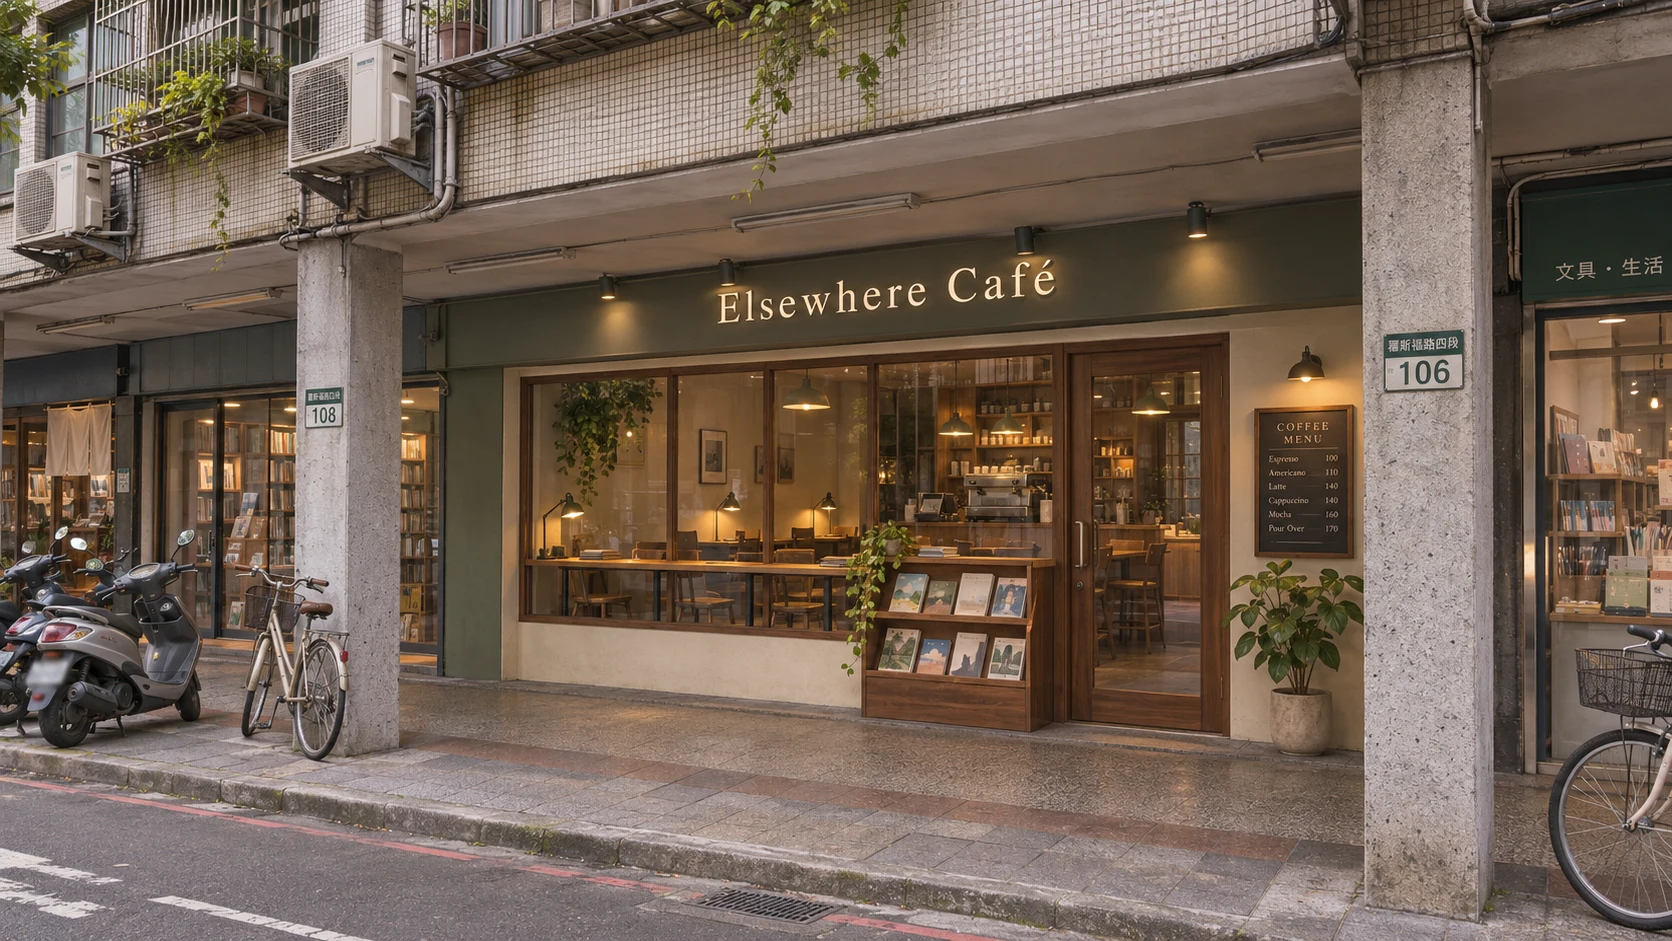
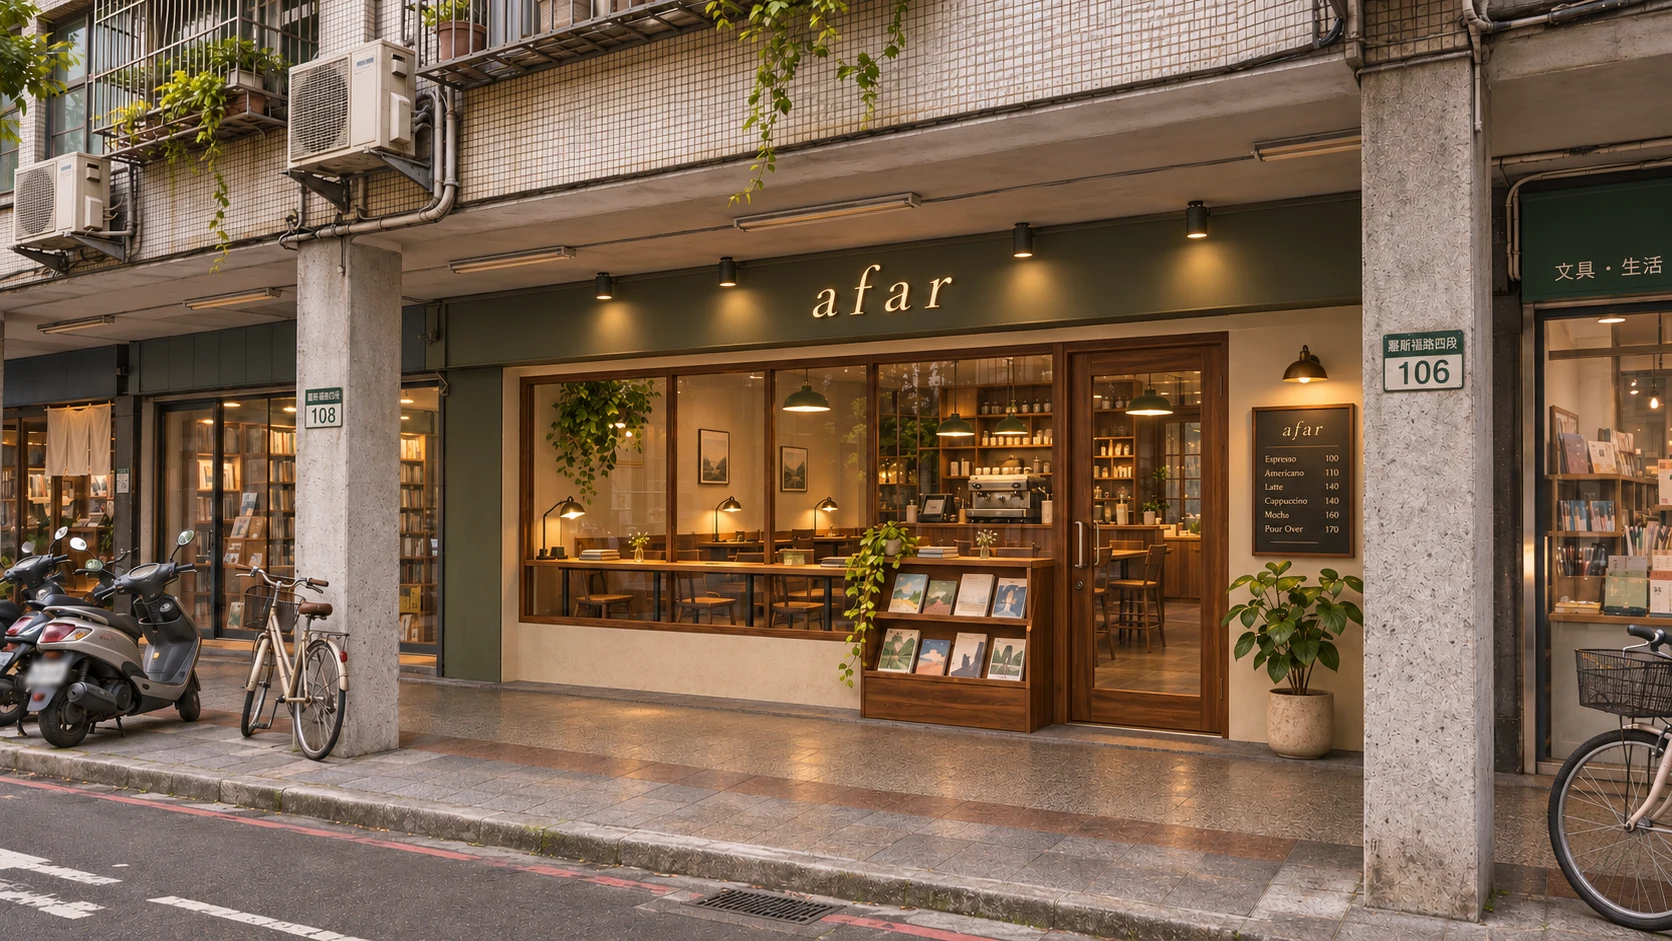
Afar café 參考圖換成使用者新版（招牌 afar）＋菜單照新黑板
Claude-Session: https://claude.ai/code/session_019Y3emYqxxC4Ch1GGf4fMzw

diff --git a/docs/story_planning/ref_images/shops/README.md b/docs/story_planning/ref_images/shops/README.md
@@ -33,7 +33,7 @@
 - **新生南路街景**：第二張的街口路牌寫「溫州街」才對。側門的門柱寫「首都帝大」照用。
 - **公館四間新店（11-04）**：圖上的「臺灣大學」「臺大（公館校區）」旗子、路牌是**真實校名，一律換成「首都帝大」**（D115）；頁間書屋外觀的門牌「羅斯福路四段 136」照用；日和便利店的「營業時間 07:00～24:00」照用（遊戲裡的便利商店營業時間照這個改）；青木茶室外帶窗口「外帶點單」照用；慢輪單車的「維修價目表」照用（價錢以 AA_646 為準，價目表上的數字可以照圖）。地板都是淺色（D112）：便利店淺灰磁磚、慢輪淺灰水泥、青木和頁間淺色磨石子。
 - **公館第二批（11-04 02:1x，AA_650）**：
-  - **Afar café**：圖上的招牌「Elsewhere Café」、室內黑板「他處咖啡 Elsewhere Café」是真實店名，**一律換成「Afar café」**（使用者選的，D77）。室內黑板的品項和價錢照用；外面那塊英文 COFFEE MENU 改成和室內同一份。門牌「羅斯福路四段 106、108」照用。地板淺灰磨石子（D112），深色胡桃木只用在家具。
+  - **Afar café**（11-04 02:2x 使用者換了新版兩張，招牌、室內牆上、黑板、書封都寫「afar」，**照新版做**；舊版 Elsewhere 那兩張作廢，git 歷史還在）：招牌是深綠飾帶上的小寫「afar」；室內吧台後面是深綠牆加「afar」字；黑板「afar COFFEE MENU」照用（Espresso 100、Americano 110、Latte 140、Cappuccino 140、Mocha 160、Pour Over 170）。門牌「羅斯福路四段 106、108」照用。地板是淺灰磨石子（D112），深色胡桃木只用在家具。
   - **洋洋鹹酥雞**：招牌、店名照用。菜單用室內那一份（外面立牌的價錢不同，改成和室內一樣）。門牌「羅斯福路四段 136」和頁間書屋撞號，換一個號碼。地板淺灰磁磚。
   - **轉角唱片**：店名照用。營業時間照圖改成「週一～週日 12:00～21:00」（AA_650 原本寫週一公休，改掉）。「二手唱片 每張 150 元起」、海報「公館的風」「城市耳機」都照用。門牌「羅斯福路四段 92」照用。
   - **轉角唱片（室內）**：牆上的「轉角唱片 Corner Records」、海報「台北的午後」「公館聲響祭 Gongguan Sound Festival '02」「河岸音樂節 Riverside Music Festival 2000」（星際樂團、午後回聲、白色電車、南方早晨）都是虛構的，照用；分類牌（搖滾／Indie、民謠／Folk、電子／Electronic）照用；右邊是試聽區（耳機＋高腳椅）。地板淺灰磨石子。

diff --git a/docs/story_planning/AA_650_公館第二批四間店_分工與驗收.md b/docs/story_planning/AA_650_公館第二批四間店_分工與驗收.md
@@ -42,7 +42,7 @@
   - 轉角唱片 12:00～21:00，每天開（照外觀圖的牌子）
   - daybreak 08:00～15:00（早午餐，下午三點收）
 - **菜單（照參考圖；11-04 02:1x 收到圖以後改）**：
-  - **Afar café**（室內黑板）：手沖單品咖啡 150、濃縮拿鐵 140、燕麥拿鐵 150、桂花拿鐵 155、黑糖拿鐵 150、茶香奶茶 145；甜點櫃（照圖有蛋糕）：起司蛋糕 120、布丁 90。
+  - **Afar café**（11-04 02:2x 新版圖的黑板「afar COFFEE MENU」）：Espresso 100、Americano 110、Latte 140、Cappuccino 140、Mocha 160、Pour Over 170；甜點櫃：起司蛋糕 120、布丁 90。遊戲裡顯示中文：濃縮咖啡、美式、拿鐵、卡布奇諾、摩卡、手沖。店名照招牌寫小寫 **afar**（台詞、地點字幕可以寫「afar café」）。
   - **洋洋鹹酥雞**（室內菜單板）：
     - 本店推薦：鹹酥雞 70、三角骨 65、魷魚 80、雞皮 55、甜不辣 45
     - 炸物：雞排 85、雞軟骨 60、花枝丸 50、薯條 45、地瓜 45
